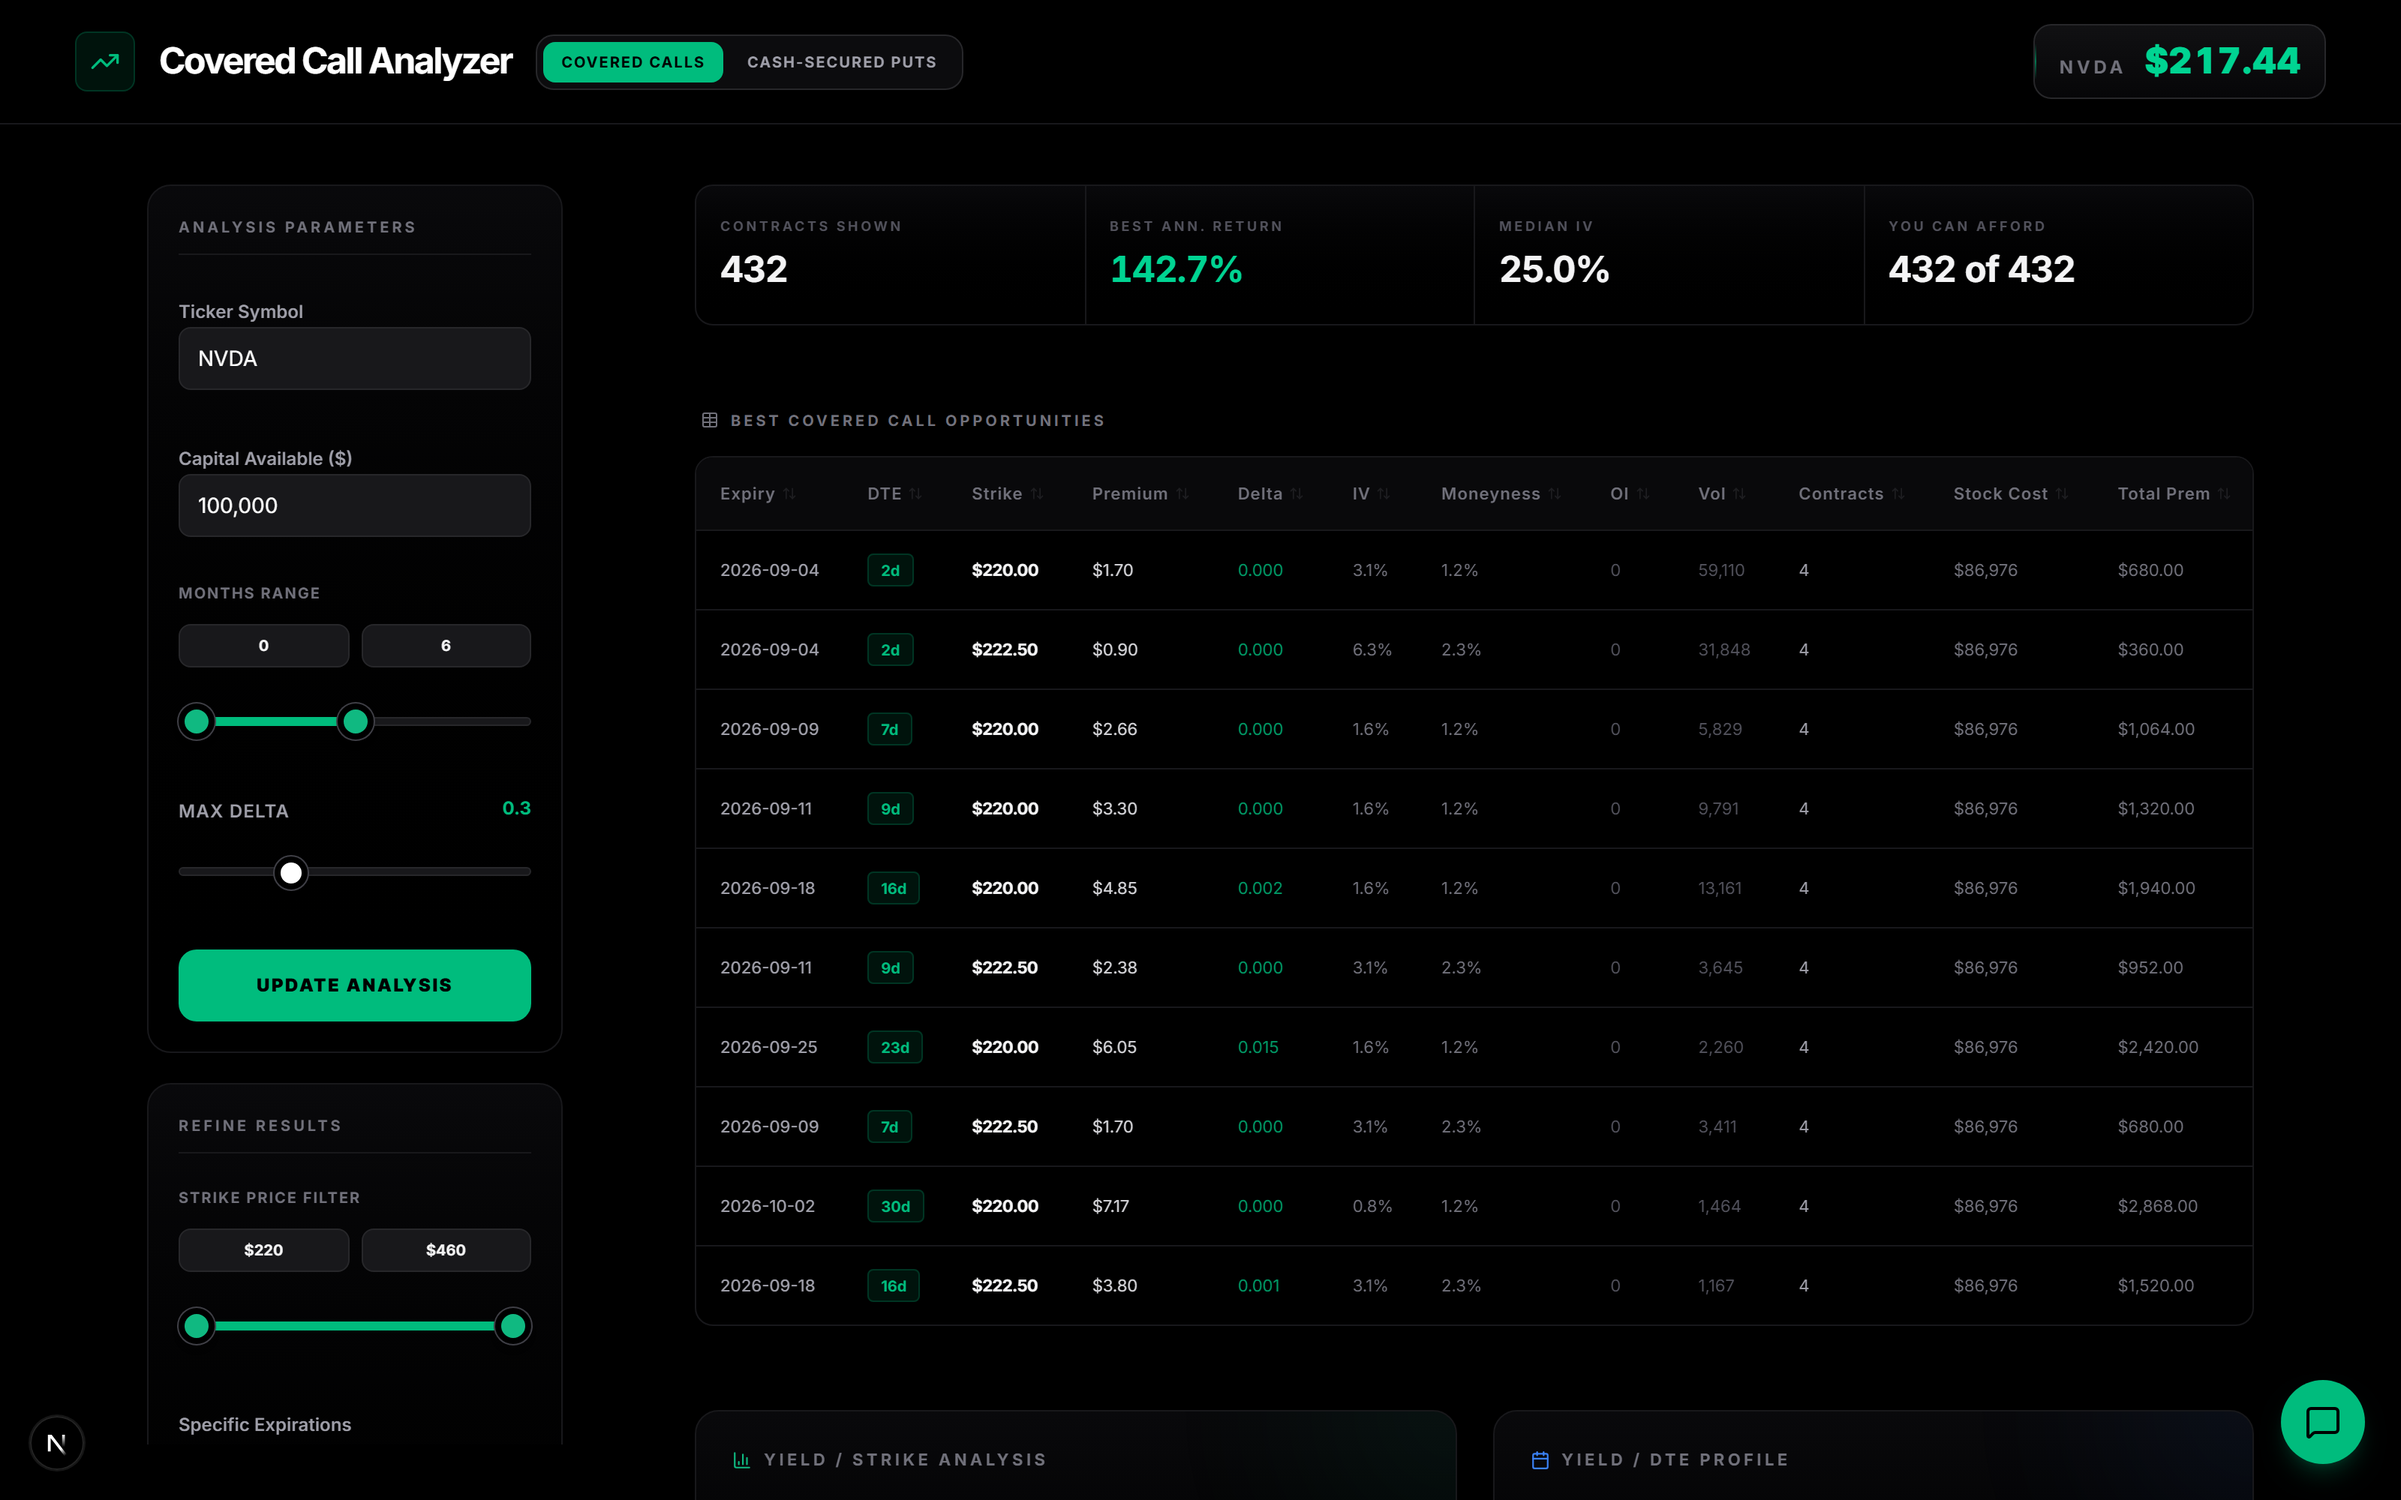
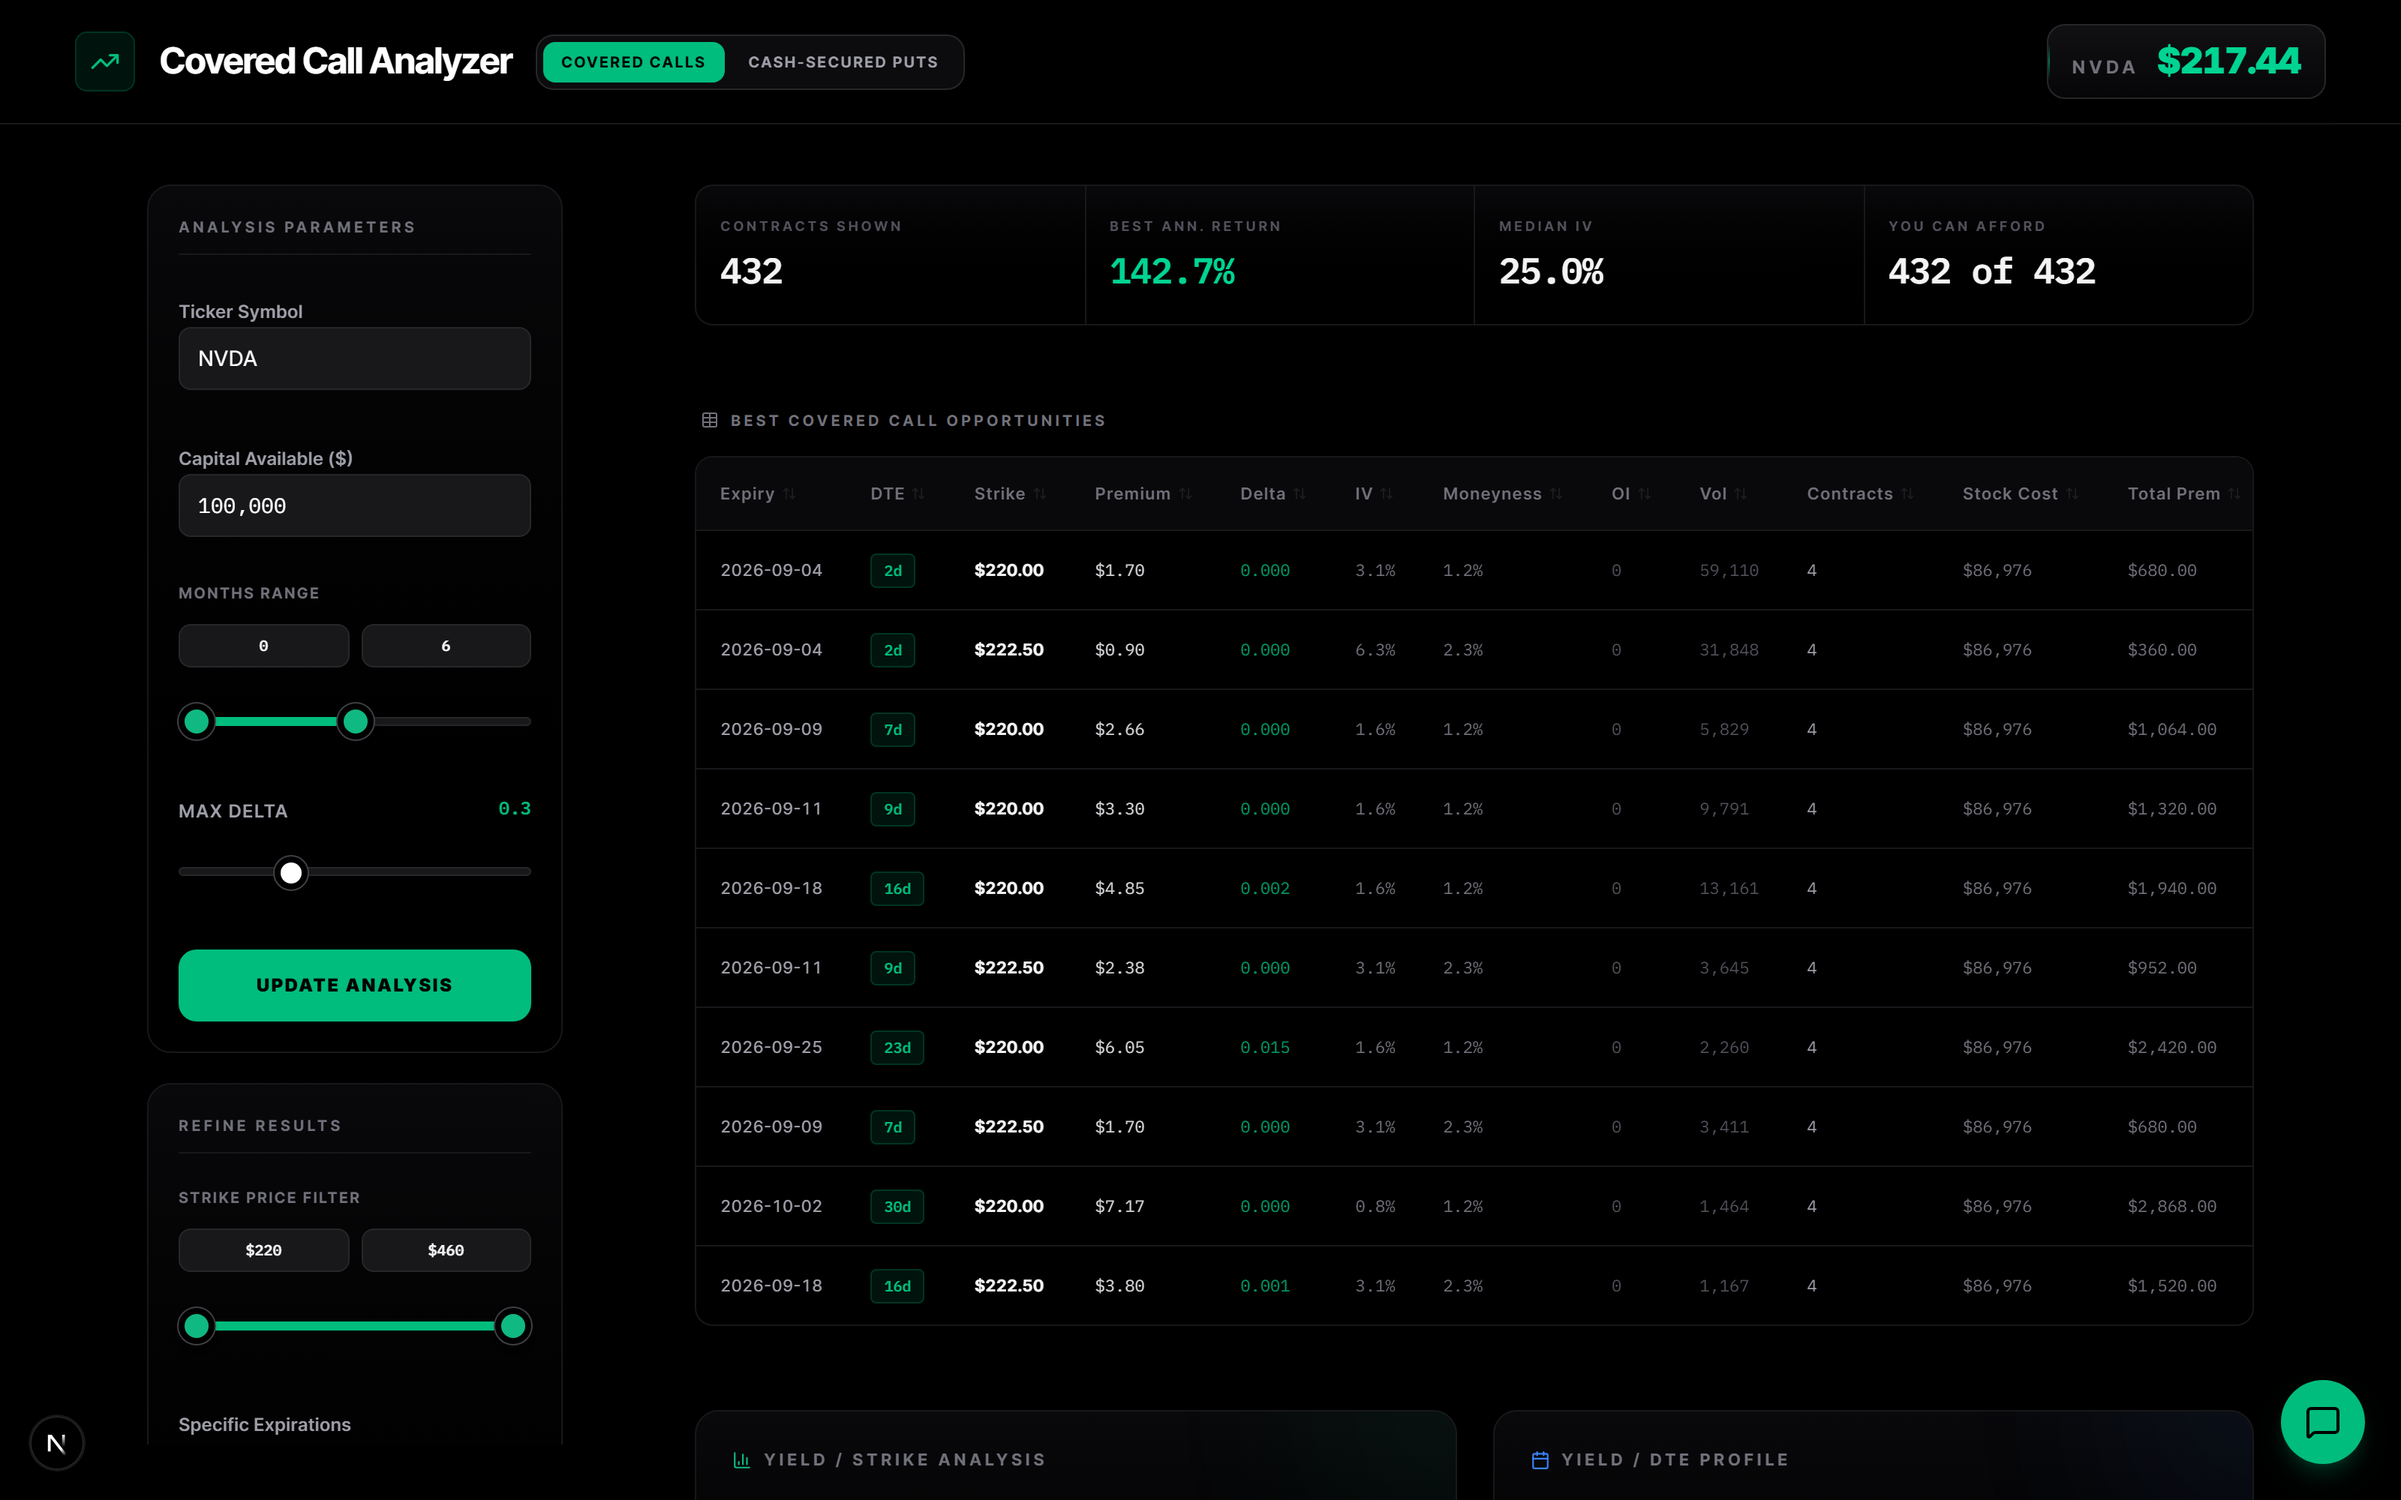
style: match prathamm.com's typography — Inter and IBM Plex Mono
Both loaded through next/font, which self-hosts and preloads them. This
replaces a render-blocking Google Fonts @import in globals.css, and drops the
Geist Sans that layout.tsx was downloading but nothing used — globals.css had
been overriding it with Inter all along.

The font was silently not applying before this. Tailwind 4 resolves @theme
variables at :root, but next/font defined its variables on <body>, so
`var(--font-sans-custom)` was out of scope where `font-sans` is generated, the
whole declaration was invalid, and Tailwind's default ui-sans-serif stack won.
Confirmed by reading the computed style rather than trusting the render. Two
changes fix it: the font variables move to <html>, and the block becomes
`@theme inline` so Tailwind emits the var() reference into each utility instead
of resolving it once at :root.

Also sets font-variant-numeric: tabular-nums on the mono class and tables, so
option columns stop shifting as values change, and replaces the stale
"Create Next App" metadata.

diff --git a/src/app/layout.tsx b/src/app/layout.tsx
@@ -1,20 +1,35 @@
 import type { Metadata } from "next";
-import { Geist, Geist_Mono } from "next/font/google";
+import { Inter, IBM_Plex_Mono } from "next/font/google";
 import "./globals.css";
 
-const geistSans = Geist({
-  variable: "--font-geist-sans",
+/**
+ * Matches prathamm.com: Inter for the UI, IBM Plex Mono for figures.
+ *
+ * Loaded through next/font, which self-hosts the files and preloads them —
+ * the Google Fonts @import this replaced blocked first paint.
+ */
+const sans = Inter({
+  variable: "--font-sans-custom",
   subsets: ["latin"],
+  display: "swap",
 });
 
-const geistMono = Geist_Mono({
-  variable: "--font-geist-mono",
+/**
+ * IBM Plex Mono is not a variable font, so the weights are listed explicitly.
+ * Its tabular figures keep the option table's columns from shifting as values
+ * change.
+ */
+const mono = IBM_Plex_Mono({
+  variable: "--font-mono-custom",
   subsets: ["latin"],
+  weight: ["400", "500", "600"],
+  display: "swap",
 });
 
 export const metadata: Metadata = {
-  title: "Create Next App",
-  description: "Generated by create next app",
+  title: "Option Income Screener",
+  description:
+    "Screen covered calls and cash-secured puts over live option chains, ranked by annualized return.",
 };
 
 export default function RootLayout({
@@ -23,11 +38,11 @@ export default function RootLayout({
   children: React.ReactNode;
 }>) {
   return (
-    <html lang="en">
-      <body
-        className={`${geistSans.variable} ${geistMono.variable} antialiased`}
-        suppressHydrationWarning
-      >
+    // The font variables go on <html>, not <body>: Tailwind resolves its theme
+    // variables at :root, so a variable defined only on <body> is undefined
+    // where `font-sans` is generated and the whole declaration is dropped.
+    <html lang="en" className={`${sans.variable} ${mono.variable}`}>
+      <body className="antialiased" suppressHydrationWarning>
         {children}
       </body>
     </html>

diff --git a/src/app/globals.css b/src/app/globals.css
@@ -1,9 +1,16 @@
-@import url('https://fonts.googleapis.com/css2?family=Inter:wght@400;500;600;700;800&display=swap');
 @import "tailwindcss";
 
-@theme {
-  --font-sans: 'Inter', ui-sans-serif, system-ui, -apple-system, BlinkMacSystemFont, "Segoe UI", Roboto, "Helvetica Neue", Arial, "Noto Sans", sans-serif, "Apple Color Emoji", "Segoe UI Emoji", "Segoe UI Symbol", "Noto Color Emoji";
-  --font-mono: var(--font-geist-mono);
+/* Fonts are loaded by next/font in layout.tsx, which self-hosts them and
+   preloads the files. The Google Fonts @import that used to live here blocked
+   first paint and pulled a second family the app never used.
+
+   `@theme inline` matters: without it Tailwind resolves these var() references
+   once at :root, where the next/font variables are not in scope, and silently
+   falls back to its default stack. `inline` emits the reference into each
+   utility instead, so it resolves against <html> where the variables live. */
+@theme inline {
+  --font-sans: var(--font-sans-custom), ui-sans-serif, system-ui, -apple-system, BlinkMacSystemFont, "Segoe UI", Roboto, "Helvetica Neue", Arial, sans-serif, "Apple Color Emoji", "Segoe UI Emoji";
+  --font-mono: var(--font-mono-custom), ui-monospace, SFMono-Regular, Menlo, Consolas, monospace;
 }
 
 :root {
@@ -20,6 +27,15 @@ body {
   color: var(--foreground);
   font-family: var(--font-sans);
   -webkit-font-smoothing: antialiased;
+  -moz-osx-font-smoothing: grayscale;
+}
+
+/* Every figure in the table is compared against the one above it, so digits
+   must occupy the same width regardless of value. */
+.font-mono,
+table,
+.tabular-nums {
+  font-variant-numeric: tabular-nums;
 }
 
 /* Custom scrollbar - Professional & Minimalist */
